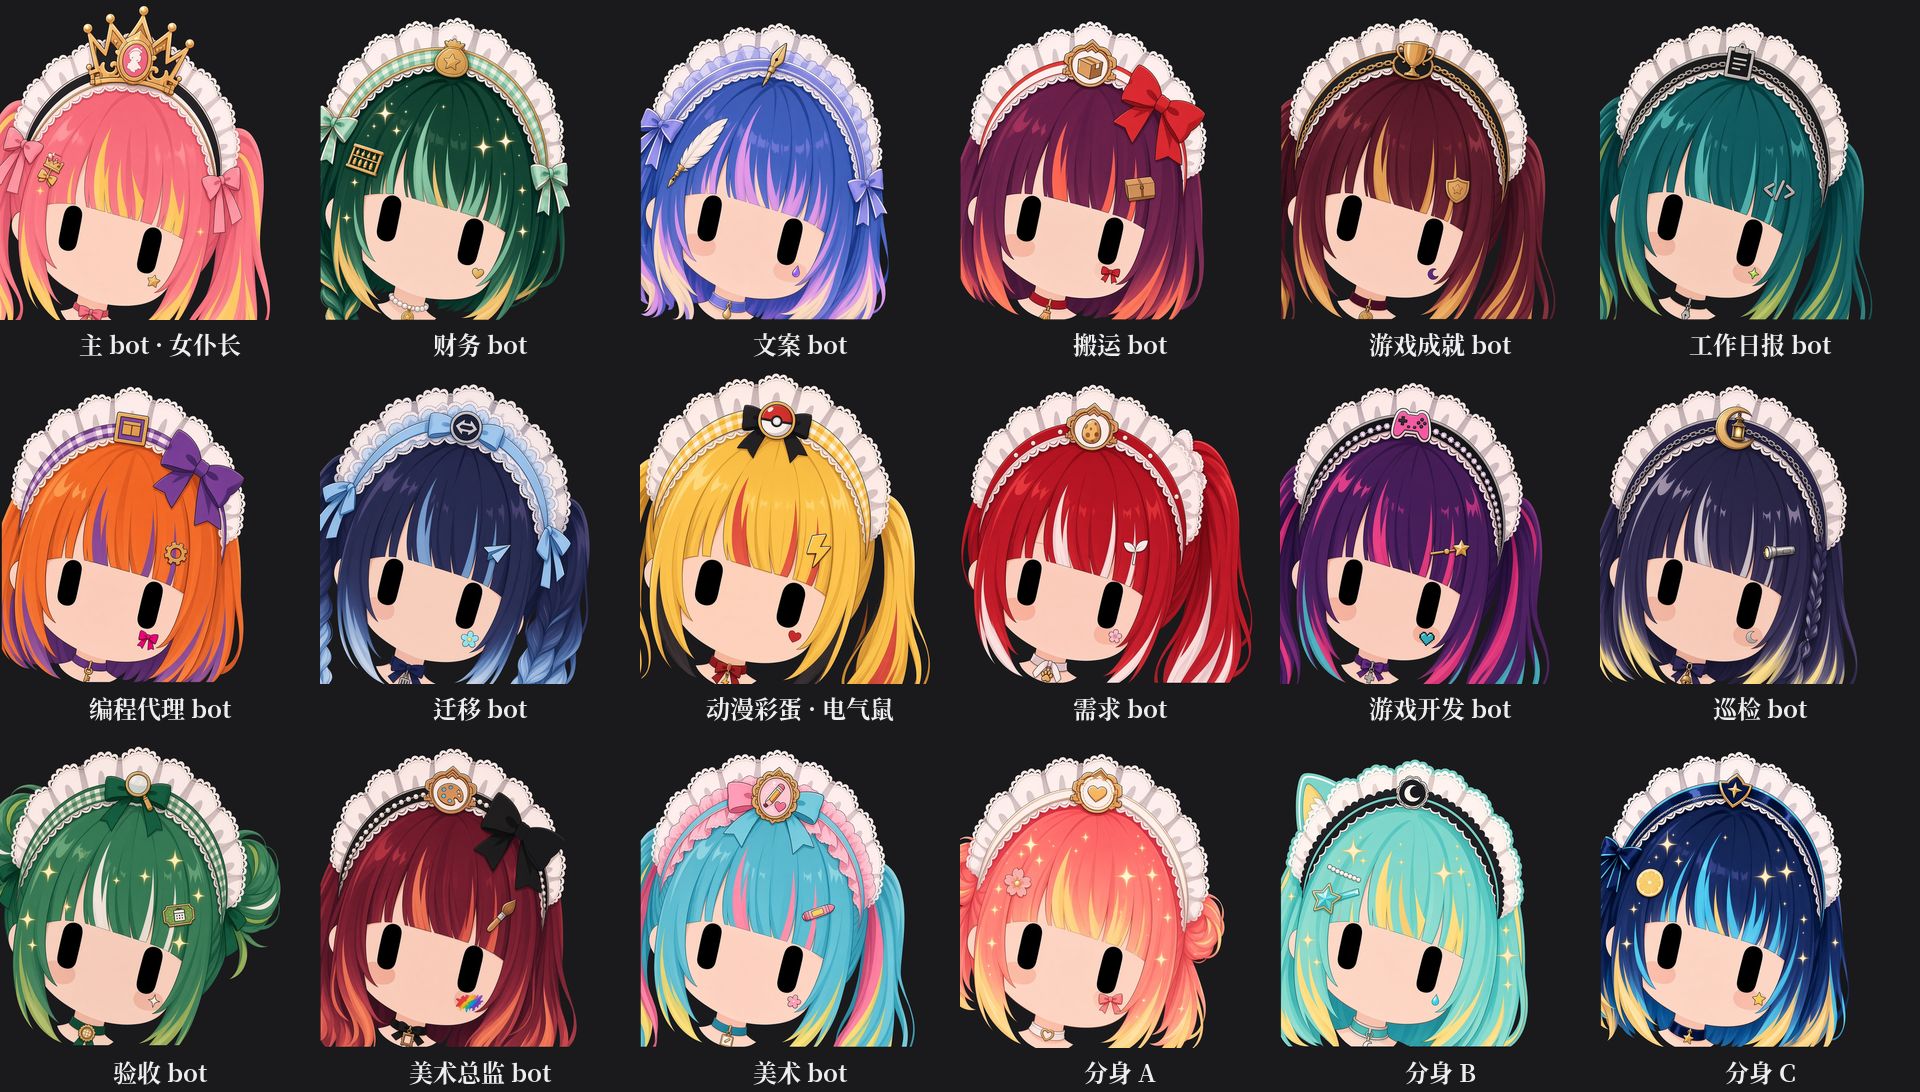
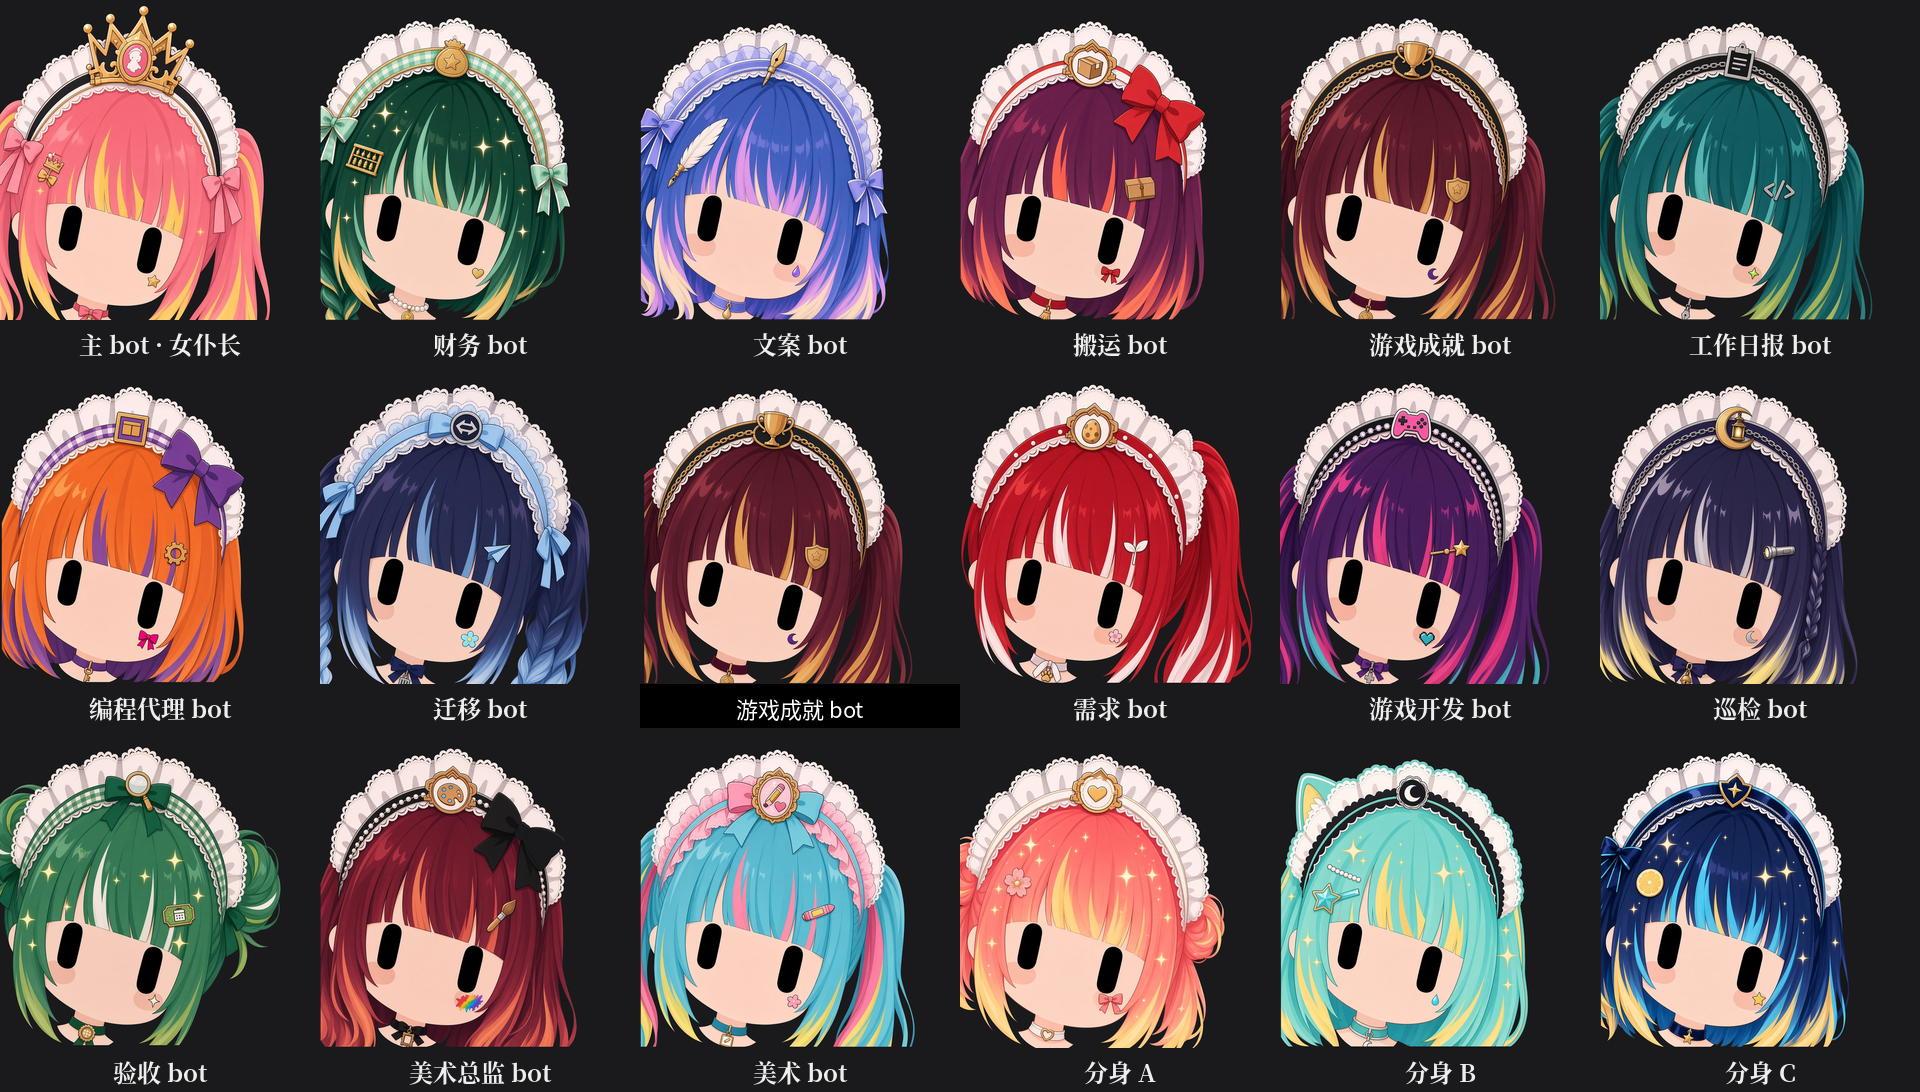
v19.1: maid-cos only for anime cameos; drop Pikachu/electric-mouse sample
Ban full animal / Pikachu / Pokémon creature / mascot-face replacements.
Replace anime-cameo sample and preview cell with generic game-achievement maid.

Changed region(s): [[0.3125, 0.3425, 0.5, 0.685]]

diff --git a/README.md b/README.md
@@ -6,9 +6,9 @@
 
 ![overview](preview.png)
 
-| 女仆长（主 bot） | 分身 | 财务 bot | 游戏开发 bot | 工作日报 bot | 动漫彩蛋 |
+| 女仆长（主 bot） | 分身 | 财务 bot | 游戏开发 bot | 工作日报 bot | 游戏成就 bot |
 |:---:|:---:|:---:|:---:|:---:|:---:|
-| ![](samples/head-maid.png) | ![](samples/sub-bot.png) | ![](samples/finance-bot.png) | ![](samples/gamedev-bot.png) | ![](samples/daily-report-bot.png) | ![](samples/anime-cameo.png) |
+| ![](samples/head-maid.png) | ![](samples/sub-bot.png) | ![](samples/finance-bot.png) | ![](samples/gamedev-bot.png) | ![](samples/daily-report-bot.png) | ![](samples/game-achievement-bot.png) |
 
 配色档位示例：
 
@@ -24,12 +24,12 @@
 4. 你说「换上」，它就直接通知所有 bot 换好，不会再让每个 bot 来问你。
 5. 以后新加的 bot 会自动按同一套规则出图、直接换上。
 
-## 完整提示词（v19）
+## 完整提示词（v19.1）
 
 <details>
 <summary>点击展开（和 PROMPT.md 完全一样）</summary>
 
-# Grok Bot 女仆头像 · 一键提示词（v19）
+# Grok Bot 女仆头像 · 一键提示词（v19.1）
 
 > **主人：** 整份复制，发给你的主 bot 就行。
 > **Bot：** 照 §1 流程一步一步做；画图时只用 §4 的英文模板，只填 `{{槽位}}`，别的字一个都不要改。
@@ -70,7 +70,7 @@
 | 分身 / 副 bot | 普通女仆头饰，彼此不一样 | **禁止** |
 | 其他职能 bot | 普通女仆头饰，彼此不一样 | **禁止** |
 
-**动漫彩蛋**：每 6～8 个 bot 里挑 1 个（最好跟它的工作有关），轻轻致敬一个热门动漫：只借发色、一个标志性发卡，或者头饰上的纹样。脸型和模子都不变，不画 logo，不写字，也不照搬角色的脸。
+**动漫彩蛋（女仆 cos）**：每 6～8 个 bot 里挑 1 个（最好跟它的工作有关），做成热门动漫角色的**女仆 cos**：只借可认出发色、一个标志性发卡，或头饰上的纹样；必须仍是同一女仆模子、女仆蕾丝头饰、同一构图。禁止整只动物形态，禁止皮卡丘 / 宝可梦生物 / 电气鼠造型，禁止用吉祥物脸替换模子脸；不画 logo，不写字，也不照搬角色原脸。整套仍是一套女仆，彩蛋也是女仆装。
 
 ---
 
@@ -121,9 +121,9 @@ HEADPIECE: maid lace/ruffle/ribbon katyusha, unique to this bot — {{silhouette
 ROLE: {{HEAD MAID: a LARGE dominant ornate gold crown rising from the lace katyusha, with lace frill base, ribbon ties and maid emblem, clearly readable at thumbnail size | NO crown, no tiara}}.
 
 ACCESSORIES: bangs clip shaped like {{job-themed cute prop}}; ONE cheek sticker on one side: {{unique playful sticker}}; choker: {{choker + optional themed charm}}. Soft hair sparkle.
-{{optional ANIME CAMEO: hair palette / one signature clip / headpiece motif inspired by {{IP}}; no logo, no text, no character face}}
+{{optional ANIME CAMEO maid-cos only: hair palette / one signature clip / headpiece motif inspired by {{IP}}; SAME maid mold + maid lace katyusha + framing; NEVER full animal form, NEVER Pikachu/Pokémon/electric-mouse creature look, NEVER replace face mold with a mascot; no logo, no text, no character face}}
 
-NEGATIVE: no mouth, no eyebrows, no eyelashes, no realistic shading, no shoulders, no hats, helmets, horns, big headphones, standalone crown or tiara, no crown unless HEAD MAID, no cropped headpiece, no black or washed-pastel hair, no pure matte black headpiece without rim, no bandaid unless assigned, no UI icons on face, no text, no logo, no watermark, no copying the master's clip/sticker/emblem.
+NEGATIVE: no mouth, no eyebrows, no eyelashes, no realistic shading, no shoulders, no hats, helmets, horns, big headphones, standalone crown or tiara, no crown unless HEAD MAID, no cropped headpiece, no black or washed-pastel hair, no pure matte black headpiece without rim, no bandaid unless assigned, no UI icons on face, no text, no logo, no watermark, no copying the master's clip/sticker/emblem, no full animal form, no Pikachu, no Pokémon creature, no electric-mouse styling, no mascot face replacing the maid mold.
 ```
 
 **填好的例子**（只写槽位部分）
@@ -167,22 +167,23 @@ NEGATIVE: no mouth, no eyebrows, no eyelashes, no realistic shading, no shoulder
 - [ ] 任意两个人的头饰至少有 2 项不一样；徽章不重复。
 - [ ] 脸颊贴纸不重复；创可贴 ≤ 2 个。
 - [ ] 发卡不重复，而且都和各自的工作有关。
-- [ ] 只有 1 个皇冠，戴在女仆长头上；动漫彩蛋约占 1/6～1/8，最多不超过 1/4。
+- [ ] 只有 1 个皇冠，戴在女仆长头上；动漫彩蛋约占 1/6～1/8，最多不超过 1/4，且全部是女仆 cos（无动物形态、无皮卡丘/电气鼠造型）。
 - [ ] 没有任何一张出现负面清单里的东西。
 
 ---
 
 ## 8. 转发时请保留
 
-同一模子、双参考、0.92～1.08 缩放上限、`#1A1A1C` 背景、深色头饰对比锁、先读上下文、≥2 个主题配饰、贴纸不重复（创可贴最多 1～2 个）、女仆长的大皇冠和分身不戴冠、先给总览再换、主人同意后直接换。
+同一模子、双参考、0.92～1.08 缩放上限、`#1A1A1C` 背景、深色头饰对比锁、先读上下文、≥2 个主题配饰、贴纸不重复（创可贴最多 1～2 个）、女仆长的大皇冠和分身不戴冠、动漫彩蛋必须女仆 cos（禁止动物形态/皮卡丘/电气鼠）、先给总览再换、主人同意后直接换。
 
-*v19*
+**v19.1*
 
 </details>
 
 ## 版本
 
-- **v19**：改成通用角色叫法；固定出图顺序、单张检查、重画上限；英文模板只留 `{{槽位}}`；加了负面清单和整套检查。
+- **v19.1**：动漫彩蛋改为「女仆 cos」硬规则——可蹭角色发色/发卡/纹样，但必须同一女仆模子与女仆头饰；禁止动物形态、皮卡丘/宝可梦生物/电气鼠造型；去掉相关样图，预览改为通用职能示例。
+- v19：改成通用角色叫法；固定出图顺序、单张检查、重画上限；英文模板只留 `{{槽位}}`；加了负面清单和整套检查。
 - v18：女仆长大皇冠、脸颊贴纸多样化、主人同意后直接换。
 - 更早的版本见 git 历史。
 

diff --git a/PROMPT.md b/PROMPT.md
@@ -1,4 +1,4 @@
-# Grok Bot 女仆头像 · 一键提示词（v19）
+# Grok Bot 女仆头像 · 一键提示词（v19.1）
 
 > **主人：** 整份复制，发给你的主 bot 就行。
 > **Bot：** 照 §1 流程一步一步做；画图时只用 §4 的英文模板，只填 `{{槽位}}`，别的字一个都不要改。
@@ -39,7 +39,7 @@
 | 分身 / 副 bot | 普通女仆头饰，彼此不一样 | **禁止** |
 | 其他职能 bot | 普通女仆头饰，彼此不一样 | **禁止** |
 
-**动漫彩蛋**：每 6～8 个 bot 里挑 1 个（最好跟它的工作有关），轻轻致敬一个热门动漫：只借发色、一个标志性发卡，或者头饰上的纹样。脸型和模子都不变，不画 logo，不写字，也不照搬角色的脸。
+**动漫彩蛋（女仆 cos）**：每 6～8 个 bot 里挑 1 个（最好跟它的工作有关），做成热门动漫角色的**女仆 cos**：只借可认出发色、一个标志性发卡，或头饰上的纹样；必须仍是同一女仆模子、女仆蕾丝头饰、同一构图。禁止整只动物形态，禁止皮卡丘 / 宝可梦生物 / 电气鼠造型，禁止用吉祥物脸替换模子脸；不画 logo，不写字，也不照搬角色原脸。整套仍是一套女仆，彩蛋也是女仆装。
 
 ---
 
@@ -90,9 +90,9 @@ HEADPIECE: maid lace/ruffle/ribbon katyusha, unique to this bot — {{silhouette
 ROLE: {{HEAD MAID: a LARGE dominant ornate gold crown rising from the lace katyusha, with lace frill base, ribbon ties and maid emblem, clearly readable at thumbnail size | NO crown, no tiara}}.
 
 ACCESSORIES: bangs clip shaped like {{job-themed cute prop}}; ONE cheek sticker on one side: {{unique playful sticker}}; choker: {{choker + optional themed charm}}. Soft hair sparkle.
-{{optional ANIME CAMEO: hair palette / one signature clip / headpiece motif inspired by {{IP}}; no logo, no text, no character face}}
+{{optional ANIME CAMEO maid-cos only: hair palette / one signature clip / headpiece motif inspired by {{IP}}; SAME maid mold + maid lace katyusha + framing; NEVER full animal form, NEVER Pikachu/Pokémon/electric-mouse creature look, NEVER replace face mold with a mascot; no logo, no text, no character face}}
 
-NEGATIVE: no mouth, no eyebrows, no eyelashes, no realistic shading, no shoulders, no hats, helmets, horns, big headphones, standalone crown or tiara, no crown unless HEAD MAID, no cropped headpiece, no black or washed-pastel hair, no pure matte black headpiece without rim, no bandaid unless assigned, no UI icons on face, no text, no logo, no watermark, no copying the master's clip/sticker/emblem.
+NEGATIVE: no mouth, no eyebrows, no eyelashes, no realistic shading, no shoulders, no hats, helmets, horns, big headphones, standalone crown or tiara, no crown unless HEAD MAID, no cropped headpiece, no black or washed-pastel hair, no pure matte black headpiece without rim, no bandaid unless assigned, no UI icons on face, no text, no logo, no watermark, no copying the master's clip/sticker/emblem, no full animal form, no Pikachu, no Pokémon creature, no electric-mouse styling, no mascot face replacing the maid mold.
 ```
 
 **填好的例子**（只写槽位部分）
@@ -136,13 +136,13 @@ NEGATIVE: no mouth, no eyebrows, no eyelashes, no realistic shading, no shoulder
 - [ ] 任意两个人的头饰至少有 2 项不一样；徽章不重复。
 - [ ] 脸颊贴纸不重复；创可贴 ≤ 2 个。
 - [ ] 发卡不重复，而且都和各自的工作有关。
-- [ ] 只有 1 个皇冠，戴在女仆长头上；动漫彩蛋约占 1/6～1/8，最多不超过 1/4。
+- [ ] 只有 1 个皇冠，戴在女仆长头上；动漫彩蛋约占 1/6～1/8，最多不超过 1/4，且全部是女仆 cos（无动物形态、无皮卡丘/电气鼠造型）。
 - [ ] 没有任何一张出现负面清单里的东西。
 
 ---
 
 ## 8. 转发时请保留
 
-同一模子、双参考、0.92～1.08 缩放上限、`#1A1A1C` 背景、深色头饰对比锁、先读上下文、≥2 个主题配饰、贴纸不重复（创可贴最多 1～2 个）、女仆长的大皇冠和分身不戴冠、先给总览再换、主人同意后直接换。
+同一模子、双参考、0.92～1.08 缩放上限、`#1A1A1C` 背景、深色头饰对比锁、先读上下文、≥2 个主题配饰、贴纸不重复（创可贴最多 1～2 个）、女仆长的大皇冠和分身不戴冠、动漫彩蛋必须女仆 cos（禁止动物形态/皮卡丘/电气鼠）、先给总览再换、主人同意后直接换。
 
-*v19*
+**v19.1*
